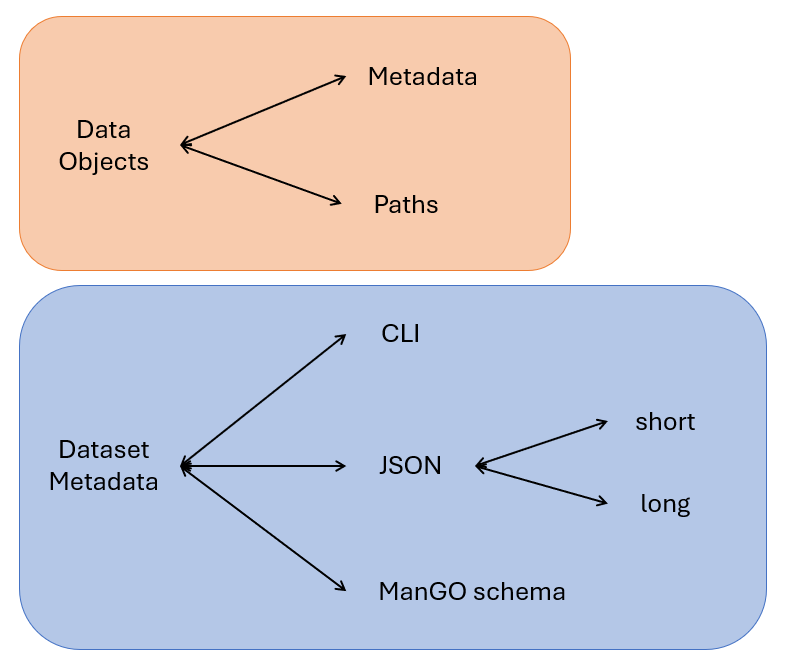
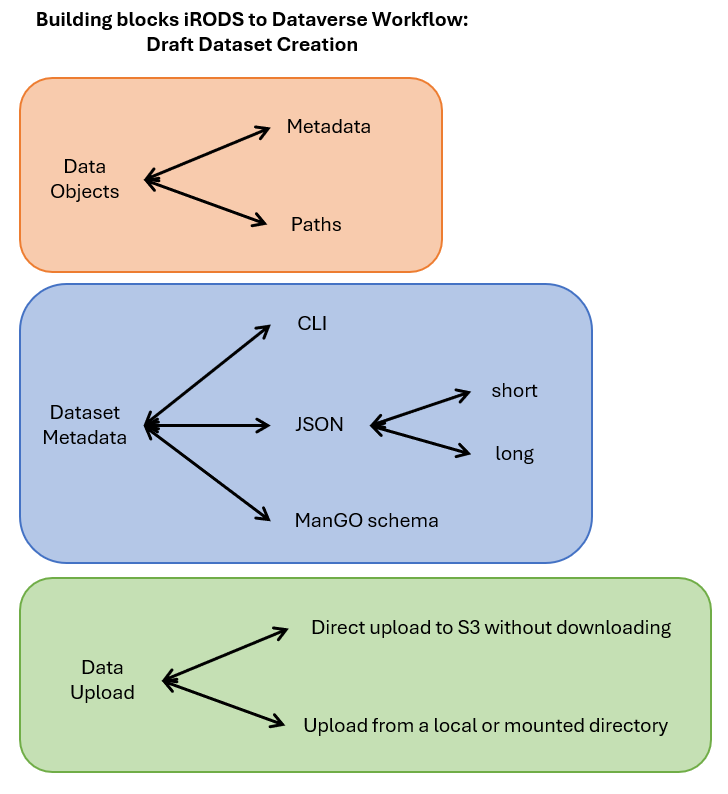
visualise the data upload building block

diff --git a/README.md b/README.md
@@ -29,7 +29,7 @@ $ python src/userScript.py
 
 Visual overview of the pipeline options:
 
-<img src="./doc/img/20241108_pipeline_options.png" alt="overview-pipeline-options" style="height: 536px; width: 635px;"/>
+<img src="./doc/img/20241108_pipeline_options.png" alt="overview-pipeline-options" style="height: 794px; width: 728px;"/>
 
 
 ## avu2json: Convert iRODS AVU or normal dictionary to Dataverse metadata
